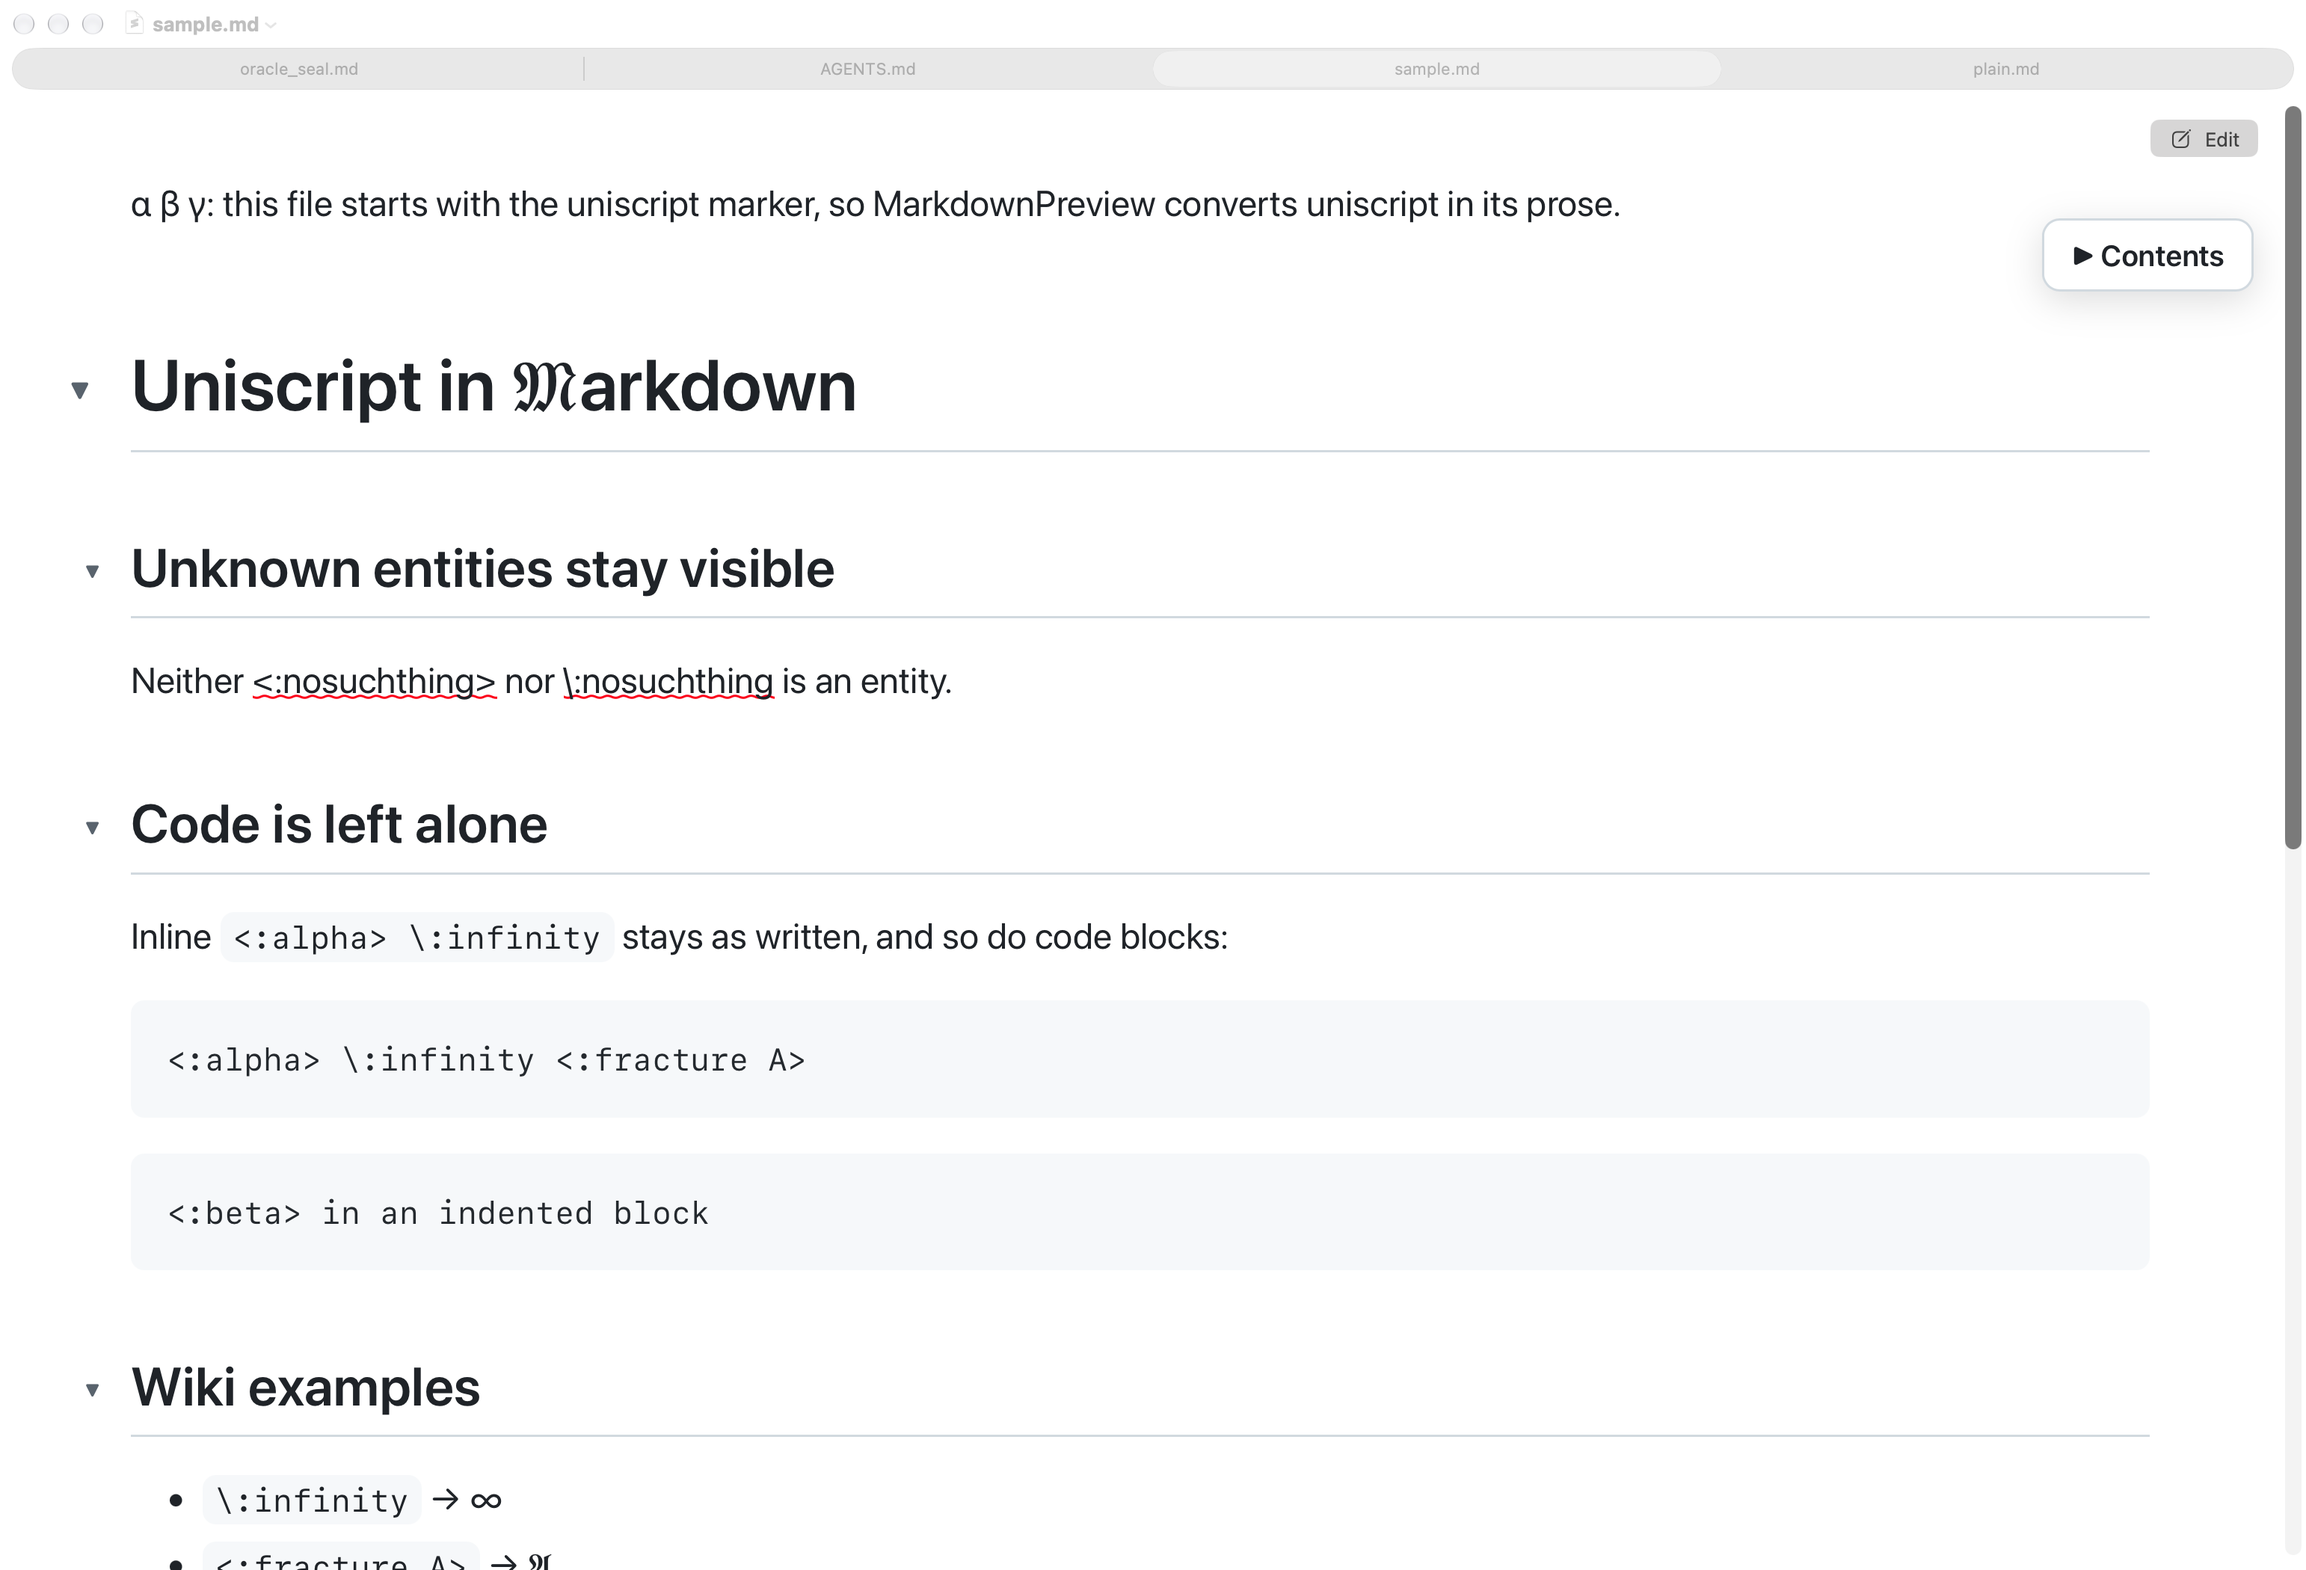
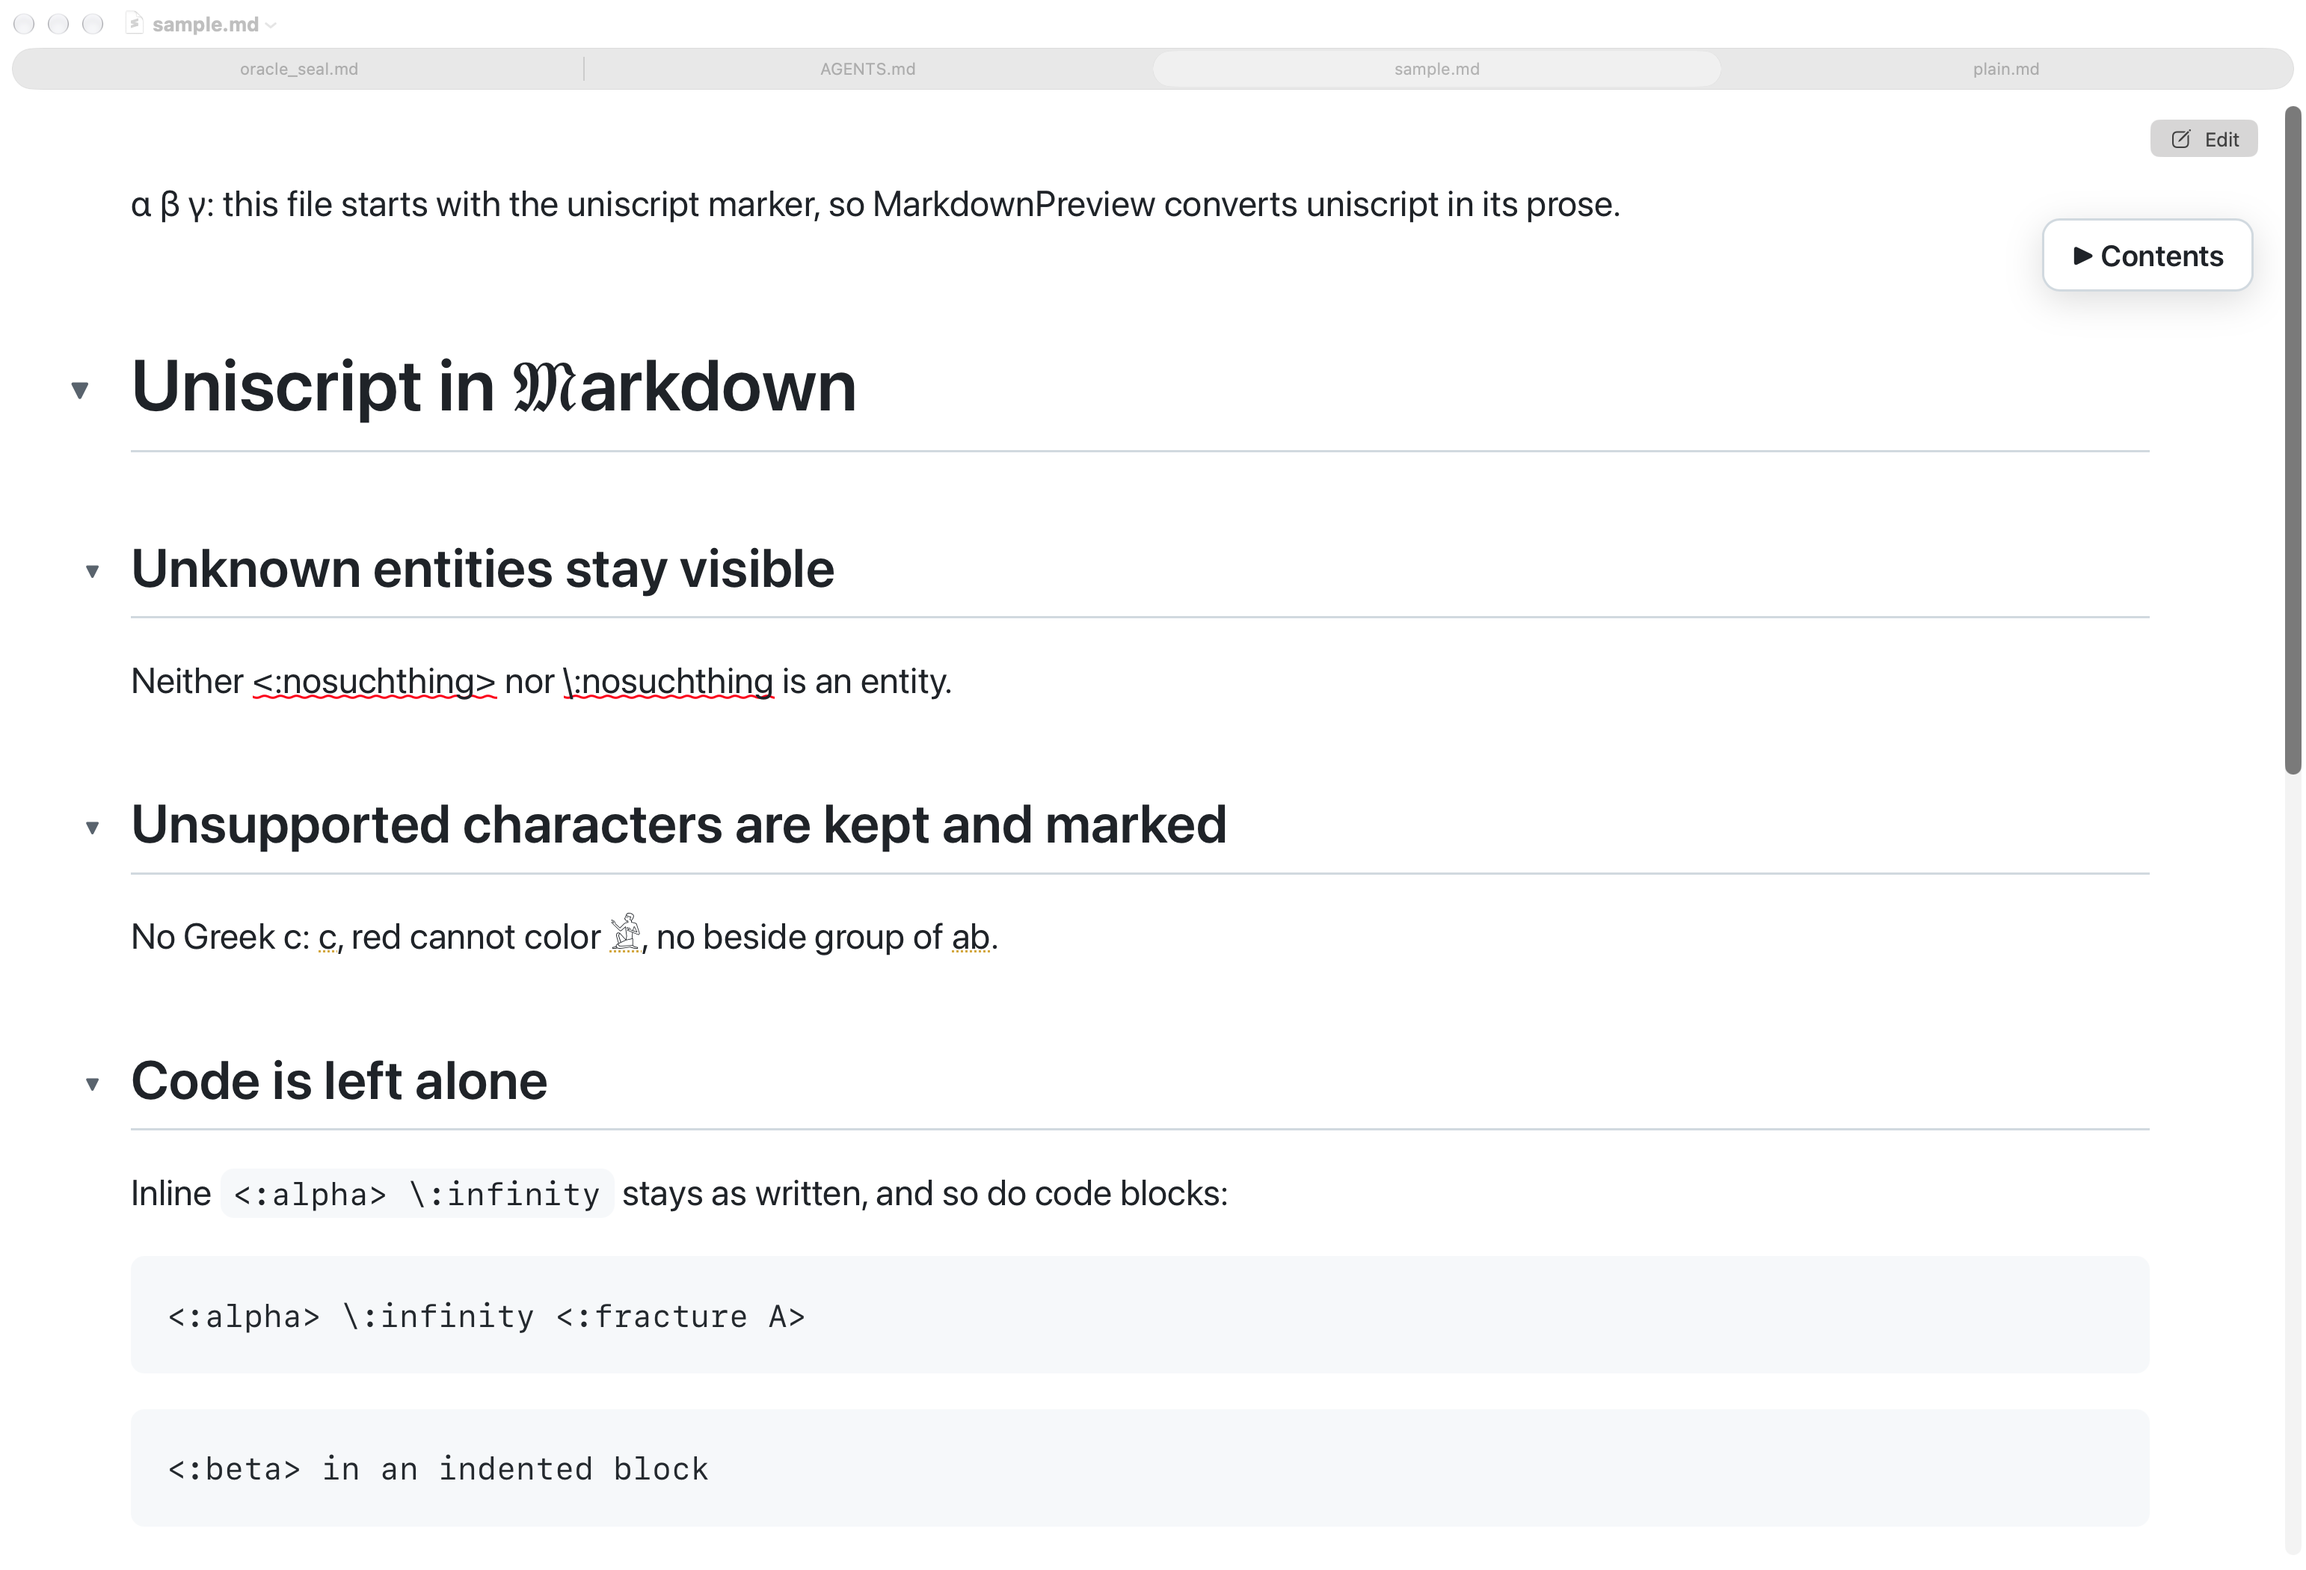
feature(minor): mark uniscript warnings in the preview and build against the latest uniscript main
A character without a counterpart stays plain with an amber dotted underline and the warning as tooltip; install.sh drops
the generated package pins so the branch dependency really follows main.

diff --git a/Renderer/Resources/render.js b/Renderer/Resources/render.js
@@ -39,6 +39,8 @@ function uniscriptElement(src) {
   return closer ? src.slice(0, tag.length + closer.index + closer[0].length) : src;
 }
 
+const uniscriptMarked = (className, message, text) => `<span class="${className}" title="${escapeHtml(message)}">${escapeHtml(text)}</span>`;
+
 const uniscriptExtension = {
   name: 'uniscript',
   level: 'inline',
@@ -48,9 +50,10 @@ const uniscriptExtension = {
     const raw = uniscriptElement(src);
     return { type: 'uniscript', raw, converted: convertUniscript(raw) };
   },
-  // an unknown entity stays visible, marked, with the error as tooltip
-  renderer: ({ raw, converted }) => converted.error === undefined ? escapeHtml(converted.text)
-    : `<span class="uniscript-error" title="${escapeHtml(converted.error)}">${escapeHtml(raw)}</span>`,
+  // an unknown entity stays visible as written, an unsupported character plain; both marked, the message as tooltip
+  renderer: ({ raw, converted: { text, error, warning } }) =>
+    error !== undefined ? uniscriptMarked('uniscript-error', error, raw)
+      : warning !== undefined ? uniscriptMarked('uniscript-warning', warning, text) : escapeHtml(text),
 };
 marked.use({ extensions: [uniscriptExtension] });
 

diff --git a/Renderer/MarkdownRenderer.swift b/Renderer/MarkdownRenderer.swift
@@ -31,7 +31,10 @@ public final class MarkdownRenderer {
         let resolveImage: @convention(block) (String) -> String = { [unowned self] source in self.inlineImage(source) }
         context.setObject(resolveImage, forKeyedSubscript: "resolveImage" as NSString)
         let convertUniscript: @convention(block) (String) -> [String: String] = { source in
-            do { return ["text": try Uniscript.toUnicode(source)] } catch { return ["error": "\(error)"] }
+            do {
+                let (text, warnings) = try Uniscript.convert(source)
+                return warnings.isEmpty ? ["text": text] : ["text": text, "warning": warnings.map(\.message).joined(separator: "\n")]
+            } catch { return ["error": "\(error)"] }
         }
         context.setObject(convertUniscript, forKeyedSubscript: "convertUniscript" as NSString)
         for name in Self.scriptNames { context.evaluateScript(resource(name, "js")) }

diff --git a/Renderer/Resources/style.css b/Renderer/Resources/style.css
@@ -53,3 +53,4 @@ kbd { padding: 2px 5px; font-size: 0.8em; border: 1px solid var(--border); borde
 #content > :is(h1, h2, h3, h4, h5, h6) { scroll-margin-top: 56px; }
 @media print { #table-of-contents { display: none; } }
 .uniscript-error { text-decoration: red wavy underline; text-decoration-skip-ink: none; cursor: help; }
+.uniscript-warning { text-decoration: #d4a72c dotted underline; text-decoration-skip-ink: none; cursor: help; }

diff --git a/notes/uniscript.md b/notes/uniscript.md
@@ -6,7 +6,10 @@
   escaped as text. Code spans and code blocks are never inline-lexed by the extension (code span rule wins at the backtick,
   fenced/indented blocks are block tokens), so code stays literal without any own Markdown parsing.
 - Conversion is Swift: `convertUniscript(raw)` injected into the JSContext returns `{text}` or `{error}` from
-  `Uniscript.toUnicode`. Errors render as `<span class="uniscript-error" title="…">raw</span>`.
+  `Uniscript.convert` (`{text, warning}` or `{error}`). Errors render as `<span class="uniscript-error" title="…">raw</span>`,
+  warnings (no greek form of c, red does not apply to 𓀀, no beside group of a) as `<span class="uniscript-warning">`
+  around the converted text of the whole element: a warning carries only the source byte offset of its tag, not the
+  output position of the plain character, so the element is the finest unit that can be marked.
 - Blocks `<:greek> a b c <:/greek>`: an opener tag converts to "" without error; the extension then consumes through the
   next `<:>`/`<:/…>` (or to the end of the paragraph) and converts it in one go. Markdown inside a block is not parsed
   (spaces there are uniscript operand separators anyway).
@@ -22,6 +25,10 @@
   team: "Signing for Uniscript_Uniscript requires a development team". `install.sh` passes `DEVELOPMENT_TEAM` read from project.yml.
 - In the uniscript repo `Sources/Uniscript/entities.idx` is a symlink to `data/entities.idx`; SwiftPM resolves it on copy.
 - The swiftly toolchain (6.0.3) can't build against the macOS 27 SDK: use `xcrun swift test` there.
+
+- Following `branch: main` is not automatic: Xcode pins the revision in the generated `Package.resolved` **and** in
+  `build/SourcePackages/workspace-state.json`; removing only the first (or fetching into the cached clone,
+  `-disablePackageRepositoryCache`) still resolved the old commit. `install.sh` removes both before building.
 
 ## Screenshots without focus stealing
 - `open -g -a MarkdownPreview file.md` + `screencapture -x -o -l <window id>` works while the app stays in the background.

diff --git a/README.md b/README.md
@@ -14,7 +14,8 @@ Native macOS Markdown viewer plus a Quick Look extension, both backed by one ren
 - Floating **Edit** button (⌘E) opens the file in Sublime Text (falls back to VS Code, then TextEdit;
   override with `defaults write com.pannous.MarkdownPreview editorBundleIdentifier <bundle id>`).
 - **Uniscript** in files that start with `<:`: `<:alpha> <:fracture A> \:infinity` shows as α 𝔄 ∞ (prose only, never in code spans or blocks);
-  an unknown entity stays visible with a red wavy underline and the error as tooltip. Converter: the Swift package of
+  an unknown entity stays visible with a red wavy underline, a character without a counterpart (`<:greek c>`) stays plain
+  with an amber dotted underline; the message is the tooltip. Converter: the Swift package of
   [pannous/uniscript](https://github.com/pannous/uniscript). Samples: `probes/uniscript/`.
 - Finder space bar and Spotlight show the same rendering through the embedded Quick Look extension.
 

diff --git a/probes/uniscript/sample.md b/probes/uniscript/sample.md
@@ -6,6 +6,10 @@
 
 Neither <:nosuchthing> nor \:nosuchthing is an entity.
 
+## Unsupported characters are kept and marked
+
+No Greek c: <:greek c>, red cannot color <:red 𓀀>, no beside group of <:beside a b>.
+
 ## Code is left alone
 
 Inline `<:alpha> \:infinity` stays as written, and so do code blocks:
@@ -22,7 +26,8 @@ Inline `<:alpha> \:infinity` stays as written, and so do code blocks:
 - `<:fracture A>` → <:fracture A>
 - `<:fracture A b c >` → <:fracture A b c >
 - `<:fracture> A b c <:>` → <:fracture> A b c <:>
-- `<:greek> a b c <:/greek>` → <:greek> a b c <:/greek>
+- `<:greek> a b g d <:/greek>` → <:greek> a b g d <:/greek>
+- `<:greek> athos <:/greek> <:greek eta Omega lambda>` → <:greek> athos <:/greek> <:greek eta Omega lambda>
 - `x<:upper a> X<:upper A>` → x<:upper a> X<:upper A>
 - `<:ligature ae>` → <:ligature ae>
 - `<:red circle> <:brown heart>` → <:red circle> <:brown heart>
